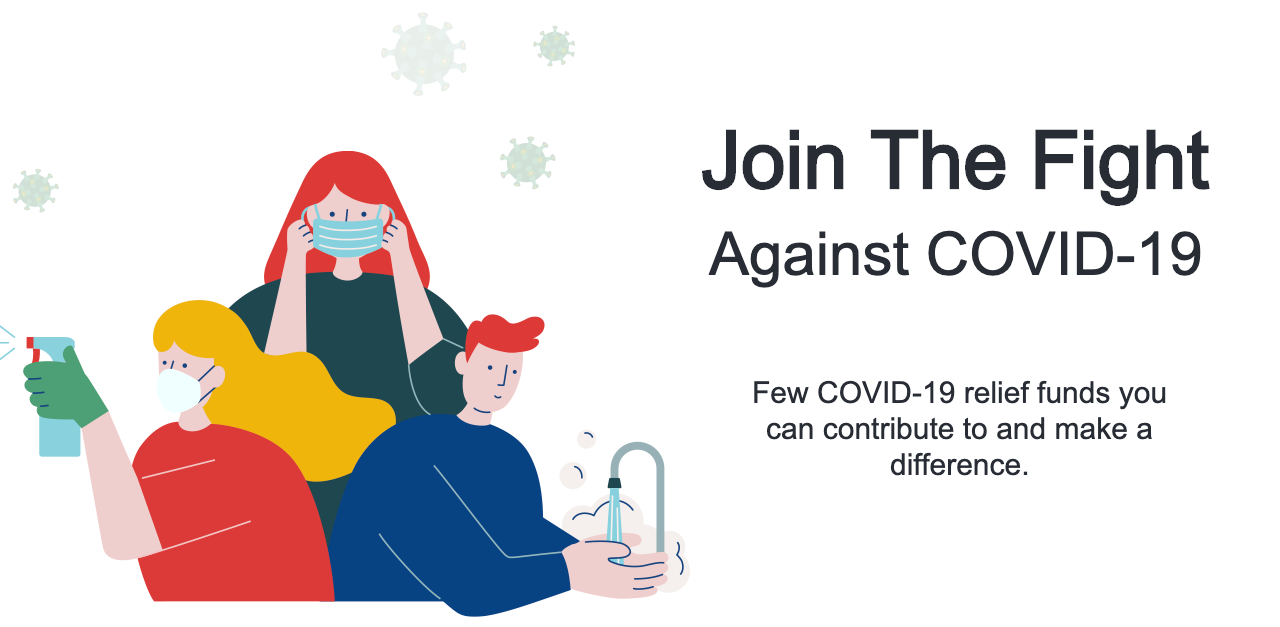
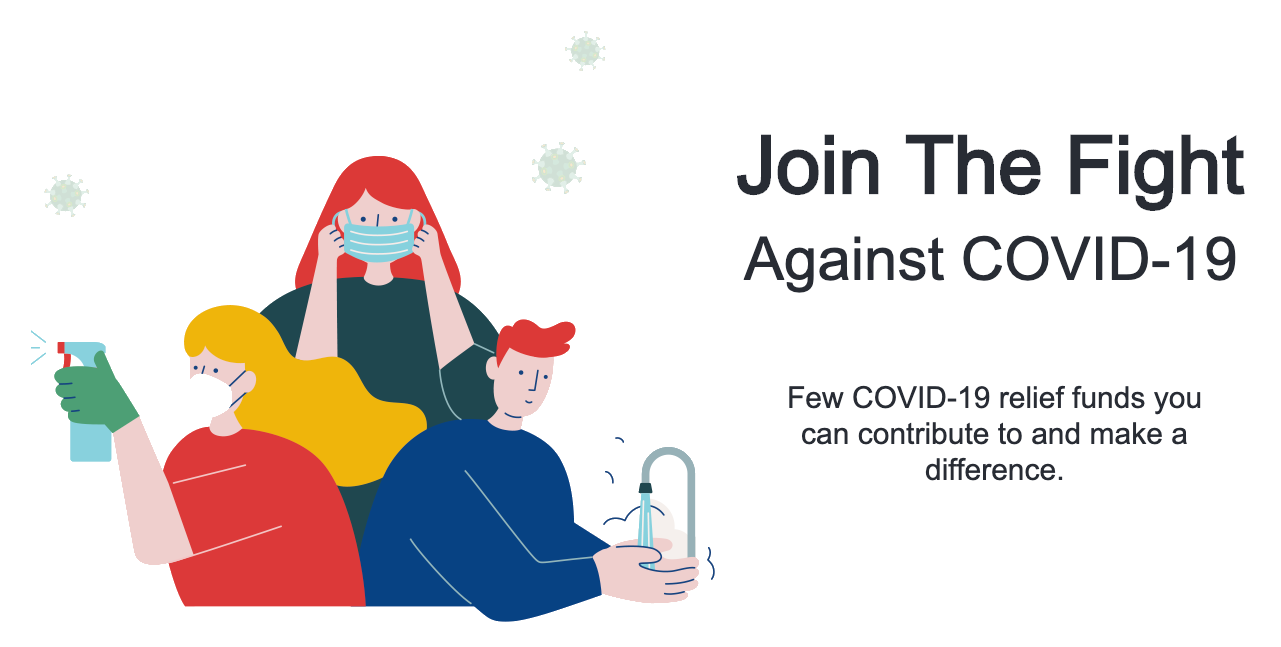
(chore): Scroll to top on Pagination
- Scroll to top on Pagination
- Update banner

diff --git a/src/components/CampaignList.js b/src/components/CampaignList.js
@@ -25,7 +25,7 @@ export default class CampaignList extends Component {
           size="large"
           pagination={{
             onChange: page => {
-              console.log(page);
+              document.getElementById("main-content").scrollIntoView();
             },
             pageSize: 5,
           }}

diff --git a/src/App.js b/src/App.js
@@ -49,7 +49,7 @@ function App() {
   return (
     <div className="App">
       <Header />
-      <main className="content">
+      <main className="content" id="main-content">
         <Filter
           categories={[...categoriesSet]}
           organiserTypes={organiserTypes}

diff --git a/src/App.css b/src/App.css
@@ -23,6 +23,10 @@
 .banner {
   width: 100%;
   height: auto;
+  max-width: 1200px;
+  margin-left: auto;
+  margin-right: auto;
+  display: block;
 }
 
 .app-header-footer-common {
